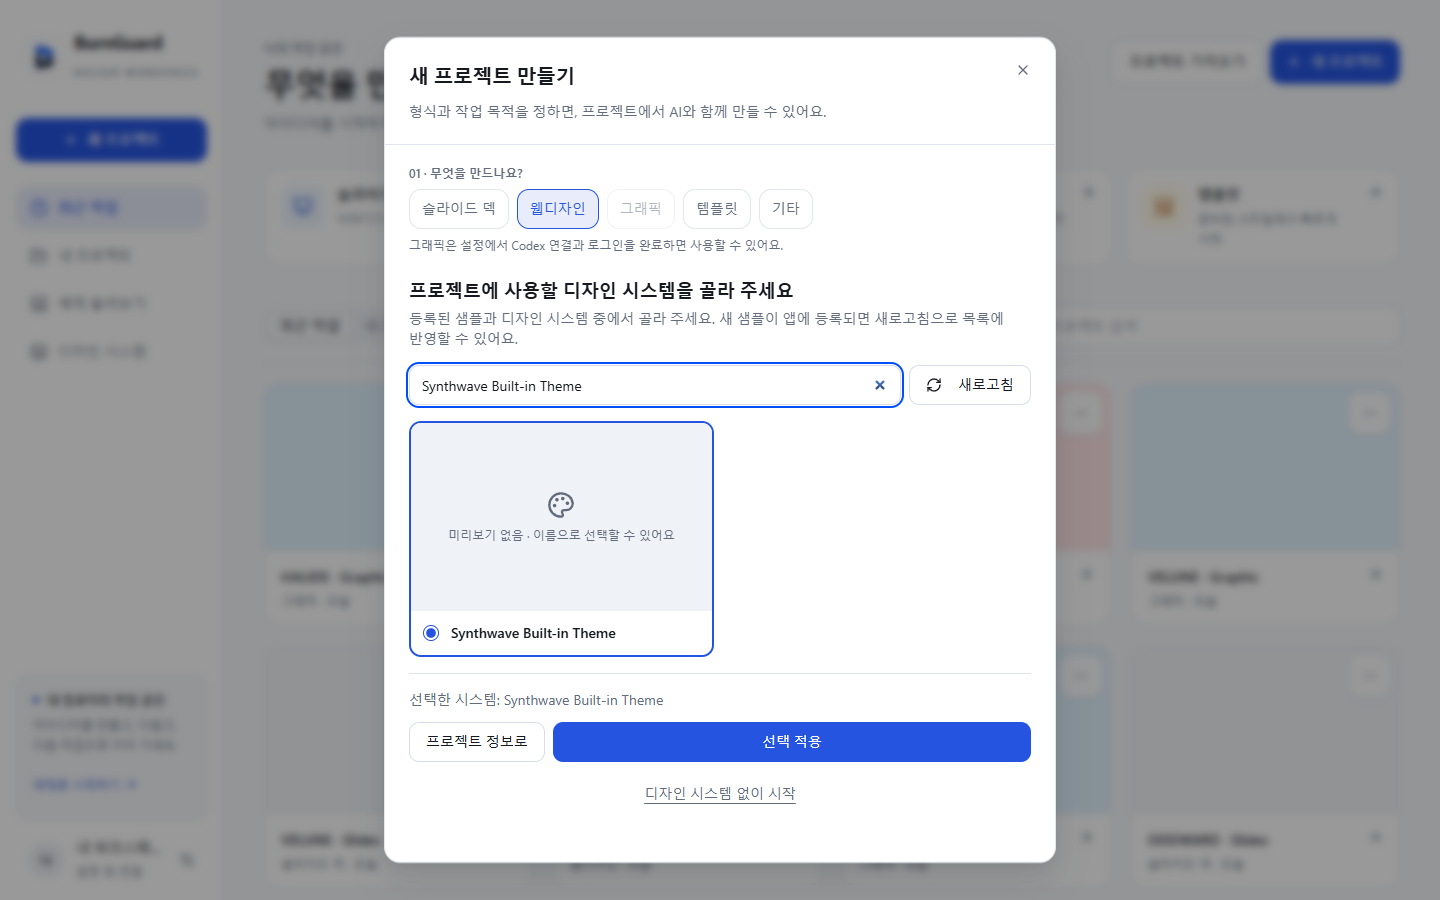
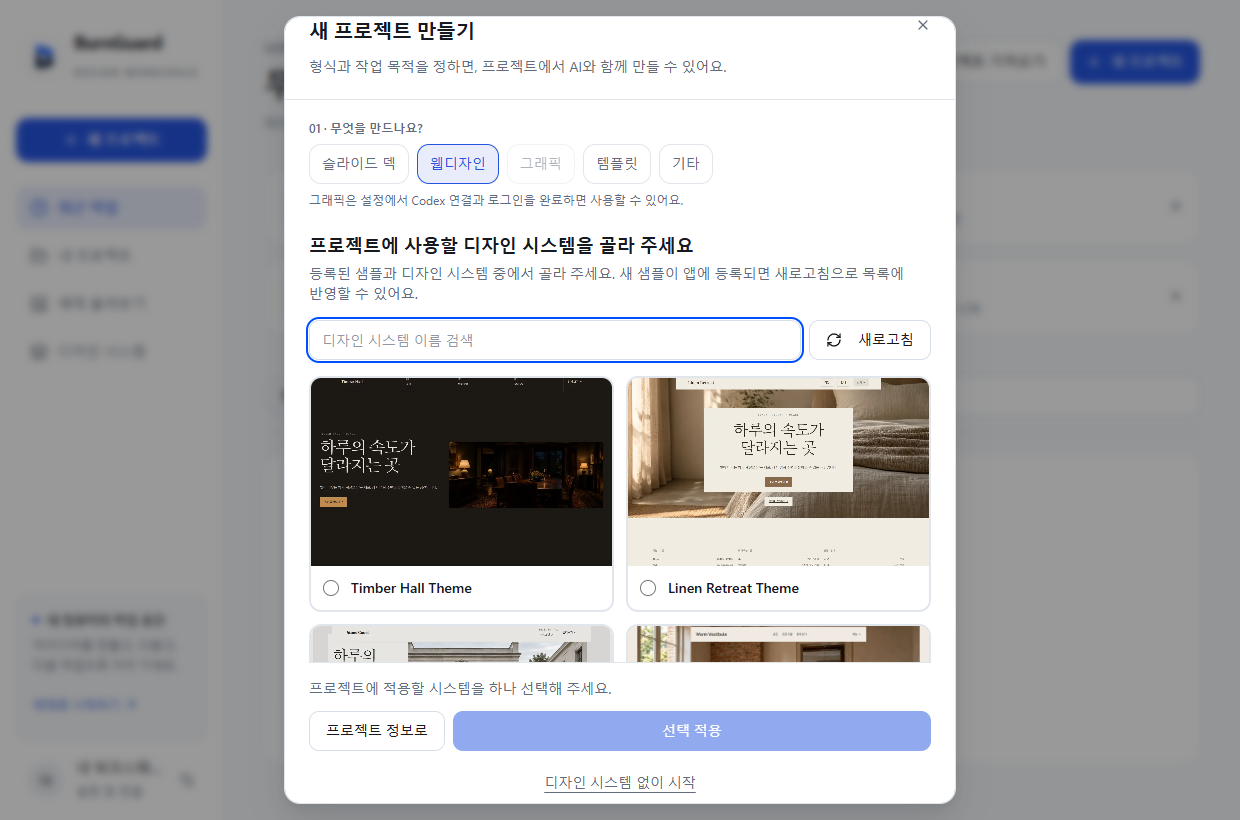
docs: show current theme layouts and onboarding in the README

diff --git a/README.md b/README.md
@@ -14,19 +14,27 @@ BurnGuard is a local design workspace for Windows and macOS. Bring your Claude C
 
 Choose a format, describe the project and select a registered design system during onboarding. Search the catalogue or refresh it to pick up newly registered systems. You can also start without one.
 
-The bundled catalogue includes **41 themes**, including **31 original themes**. Every bundled theme defines its grid, content width, spacing, composition and responsive behavior alongside typography and colors. The original sample systems and prompt presets carry layout rules too. Add your own systems from supported files, websites, repositories or Figma sources, then review and publish them for project use.
+The bundled catalogue includes **41 themes**, including **31 original themes**. Each has a distinct navigation, hero and footer combination, with its own placement, proportions and responsive rules alongside typography and colors. These layouts adapt references from Supahero, Navbar Gallery and Footer Design; each theme records its sources. The original sample systems and prompt presets carry layout rules too. Add your own systems from supported files, websites, repositories or Figma sources, then review and publish them for project use. [Explore the 41 reference layouts](doc/21-theme-reference-layouts-2026-09-15.md)
 
 ![Project onboarding with design-system search, refresh and selection controls](doc/images/readme-design-system-picker.png)
 
 *Design-system selection in the real application. Systems without a preview remain selectable by name.*
 
-Open a system's overview to inspect its layout rules. **Direction setting and generation use the same rules**, including compact prompts: the three direction previews vary message, evidence and action emphasis within the selected system's structure. These are structural summaries; rendered output can contain richer detail. Directions saved before the system was selected or its rules changed can be regenerated from the current system.
+Open a system's overview to inspect its navigation, hero and footer rules. **Direction setting and generation use the same rules**, including compact prompts: the three direction previews vary message, evidence and action emphasis within the selected system's structure. These are structural summaries; rendered output can contain richer detail. Directions saved before the system was selected or its rules changed can be regenerated from the current system.
 
-![Design-system overview showing a grid diagram, width and spacing values, composition guidance and responsive rules](doc/images/readme-layout-overview.png)
+![Design-system overview showing concise navigation, hero and footer rules, a grid diagram and layout dimensions](doc/images/readme-layout-overview.png)
 
-*The actual overview for an older installed Dark theme. Missing bundled rules are supplemented while existing authored rules are preserved.*
+*The actual Cobalt Atelier overview. Navigation, hero and footer summaries stay visible; expand a region to read its full rules. Missing bundled rules are supplemented while existing authored rules are preserved.*
+
+![Direction setting using the same Cobalt Atelier layout rules with LOW reasoning effort selected](doc/images/readme-layout-direction.png)
+
+*The same layout rules in a real project's direction screen, before generation. This capture shows the configured guidance, not a measured model-quality result.*
 
 Desktop packages include **41 website examples**, **41 generated WebP illustrations** and **41 website thumbnails captured in Chrome**. The design-system library and project onboarding show the thumbnails; each theme's overview has a dedicated, scrollable website preview. Explore editorial sites, shops, workspaces, cultural pages and more in the [website preview gallery](design%20system%20themes/previews/index.html). [Theme token catalogue](design%20system%20themes/catalogue.html)
+
+![Design-system library showing actual website thumbnails in BurnGuard](doc/images/readme-design-system-library.png)
+
+*The actual design-system library with bundled website thumbnails.*
 
 These examples illustrate the bundled themes' default designs. Existing system preview files take precedence; when they are missing, BurnGuard shows the bundled reference without overwriting edited system files or publication records. In the app, the examples use the shared local font store.
 
@@ -51,7 +59,7 @@ PPTX exports contain a high-resolution image of each slide and its text in speak
 ## Refine the result where you see it
 
 - **Edit on canvas.** Select elements, adjust size and rotation, change typography and spacing, or work with colors. Saved revisions and undo help you return to an earlier result.
-- **Leave a targeted comment.** Pin feedback to a location and send an AI edit request. Hover over the canvas and press **Ctrl+Space** on Windows/Linux or **Control+Option+Space** on macOS for a quick comment.
+- **Leave a targeted comment.** Pin feedback to content and send an AI edit request. Pins stay attached while you scroll; click a saved pin to reopen its comment. Hover over the canvas and press **Ctrl+Space** on Windows/Linux or **Control+Option+Space** on macOS for a quick comment.
 - **Add source material.** Attach supported PDFs, slide decks, documents, images or text, or import an exported HTML project ZIP. Original attachments are retained separately from published website assets.
 - **Review before sharing.** Quality and UX panels identify issues and offer repair actions. Their findings are advisory; review the rendered result before exporting or publishing.
 
@@ -131,8 +139,10 @@ The interface captures were selected from the repository's local `.omo/evidence`
 | README image | Original evidence capture |
 |---|---|
 | Website workspace | `fonts-2026-09-09/app-created-prototype.png` |
-| Design-system picker | `design-system-onboarding-20260914/onboarding-desktop.png` |
-| Layout overview | `design-system-layout/overview-desktop.png` |
+| Design-system picker | `reference-layout-app/selected/onboarding.png` |
+| Design-system library | `reference-layout-app/selected/list.png` |
+| Layout overview | `reference-layout-app/selected/overview-desktop.png` |
+| Layout direction | `reference-layout-app/selected/direction-desktop.png` |
 | Slide workspace | `updates-samples-2026-09-09/app-created-slide_deck.png` |
 | Graphic output | `fonts-2026-09-09/oddward-graphic-quality.png` |
 

diff --git a/doc/images/README.md b/doc/images/README.md
@@ -18,9 +18,11 @@ Source capture lane: `workspace-diagnosis`, 27 browser cases passed. Thumbnail p
 
 ### Current README captures
 
+`readme-design-system-library.png` and `readme-design-system-picker.png` were copied byte-for-byte from `.omo/evidence/reference-layout-app/selected/list.png` and `selected/onboarding.png`, captured on 2026-09-15 with the built application, real local API and a fresh isolated theme profile. They show the 41 bundled reference layouts and their current Chrome-captured website thumbnails. The captures contain no private projects, external provider results or image retouching.
+
 The root README uses unmodified captures selected from local QA evidence. The existing website, onboarding, slide and graphic sources are recorded in its “About the screenshots” table.
 
-`readme-layout-overview.png` was copied byte-for-byte from `.omo/evidence/design-system-layout/overview-desktop.png`, captured on 2026-09-14 at 1440 × 1000 pixels with the real local backend and an isolated QA profile. It shows the Dark theme's layout overview: grid geometry, dimensions, composition and responsive guidance. The profile contains an older installed theme, so the notice describes supplementing missing bundled layout rules while preserving authored rules. The diagram is a structural summary, not a generated website or a live model result. The complete image was inspected without cropping, retouching or conversion.
+`readme-layout-overview.png` and `readme-layout-direction.png` were copied byte-for-byte from `.omo/evidence/reference-layout-app/selected/overview-desktop.png` and `selected/direction-desktop.png`, captured on 2026-09-15. They show Cobalt Atelier's navigation, hero and footer summaries in its system overview and in a real isolated project's direction screen. Full region guidance is available through native disclosures. The diagram is a structural summary, not a generated website or measured model result. All four current captures were opened and inspected without cropping, retouching or conversion; each is below 500 KiB.
 
 ## Generation prompt
 
